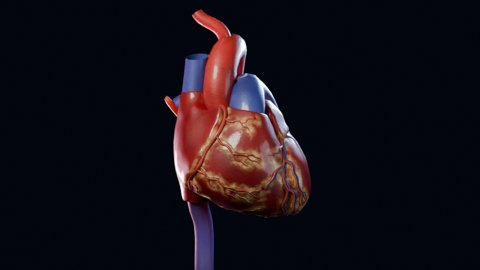
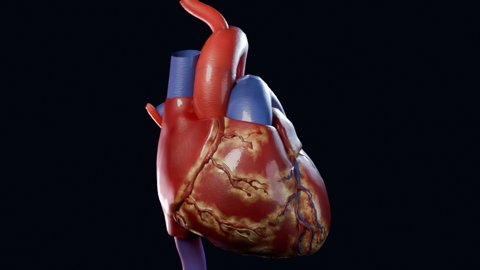
Blender 心脏第三版：冠状血管半埋进心肌（顶点往最近心肌表面拉 embed 比例，变细变平）、单独的冠状血管材质（更暗、反光弱）；镜头推近，心脏占画面六七成
Claude-Session: https://claude.ai/code/session_01MPXDuWJUby6Gdf1fWgkkme

Changed region(s): [[0.2812, 0.0, 0.6875, 1.0]]

diff --git a/video/src/engine/assets/registry.ts b/video/src/engine/assets/registry.ts
@@ -304,6 +304,9 @@ export const ASSETS: AssetMeta[] = [
       artery: {type: 'color', default: '#963431', desc: '动脉 / 肺静脉颜色（含氧血，红）'},
       vein: {type: 'color', default: '#3b4683', desc: '静脉 / 肺动脉颜色（缺氧血，蓝）'},
       valve: {type: 'color', default: '#e6c3ae', desc: '瓣膜颜色'},
+      coronaryArtery: {type: 'color', default: '#7c2624', desc: '冠状动脉颜色（比大动脉暗，融进心肌）'},
+      coronaryVein: {type: 'color', default: '#3c3c70', desc: '心静脉颜色'},
+      embed: {type: 'number', default: 0.5, min: 0, max: 0.9, desc: '冠状血管埋进心肌的程度（0 = 原模型浮在表面，越大越细越平）'},
       fat: {type: 'number', default: 1, min: 0, max: 2, desc: '心外膜脂肪多少（沿冠状血管的黄白色脂肪）'},
       fatReach: {type: 'number', default: 0.05, min: 0, max: 0.3, desc: '脂肪离冠状血管最远多远（模型单位，心脏约 1.2）'},
       fstop: {type: 'number', default: 2.8, min: 0.5, max: 32, desc: '景深光圈（越小背景越虚）'},

diff --git a/video/blender/heart_scene.py b/video/blender/heart_scene.py
@@ -43,7 +43,7 @@ asset = next(a for a in cfg['assets'] if a['id'] == 'biology.heart.v1')
 P = {
     'bpm': 72, 'beat': 1.0, 'spin': 0.0,
     'myocardium': '#74181b', 'artery': '#963431', 'vein': '#3b4683', 'valve': '#e6c3ae',
-    'fstop': 2.8, 'seed': 'heart', 'fat': 1.0, 'fatReach': 0.05,
+    'fstop': 2.8, 'seed': 'heart', 'fat': 1.0, 'fatReach': 0.05, 'embed': 0.5, 'coronaryArtery': '#7c2624', 'coronaryVein': '#3c3c70',
     **asset.get('params', {}),
 }
 fps = cfg['fps']
@@ -69,8 +69,19 @@ bpy.ops.import_scene.gltf(filepath=os.path.join(VIDEO, 'public/assets/models/ana
 parts = [o for o in scene.objects if o.type == 'MESH']
 
 # 部件 → 材质类别（教科书配色：含氧血红、缺氧血蓝）
+CORONARY_WORDS = ('coronary', 'cardiac vein', 'interventricular', 'circumflex', 'sinus', 'inferolateral', 'septal branches', 'vein of left ventricle')
+
+
+def is_coronary(name):
+    n = name.lower()
+    return any(w in n for w in CORONARY_WORDS)
+
+
 def part_kind(name):
     n = name.lower()
+    if is_coronary(name):
+        # 冠状血管单独一类：半埋在心肌 / 脂肪里，颜色更暗、反光更弱
+        return 'coronary_vein' if ('vein' in n or 'sinus' in n) else 'coronary_artery'
     if 'leaflet' in n:
         return 'valve'
     if 'vein' in n or 'sinus' in n or 'vena cava' in n:
@@ -148,7 +159,7 @@ def make_tissue(name, color, kind):
     _set(b, 'Subsurface Weight', 0.4 if kind == 'muscle' else 0.3)
     _set(b, 'Subsurface Radius', (1.0, 0.3, 0.18))
     _set(b, 'Subsurface Scale', 0.06)
-    _set(b, 'Coat Weight', 0.7 if kind == 'muscle' else 0.45)
+    _set(b, 'Coat Weight', {'muscle': 0.7, 'vessel': 0.45, 'coronary': 0.3}[kind])
     _set(b, 'Coat Roughness', 0.07)
     _set(b, 'Coat IOR', 1.38)
     _set(b, 'Specular IOR Level', 0.4)
@@ -199,6 +210,8 @@ MATS = {
     'vein': make_tissue('vein', hex_rgb(P['vein']), 'vessel'),
     'pulmonary_artery': make_tissue('pulmonary_artery', hex_rgb(P['vein']), 'vessel'),
     'valve': make_tissue('valve', hex_rgb(P['valve']), 'vessel'),
+    'coronary_artery': make_tissue('coronary_artery', hex_rgb(P['coronaryArtery']), 'coronary'),
+    'coronary_vein': make_tissue('coronary_vein', hex_rgb(P['coronaryVein']), 'coronary'),
 }
 for o in parts:
     o.data.materials.clear()
@@ -210,9 +223,7 @@ for o in parts:
 def bake_fat():
     # 每个心肌顶点到最近冠状血管（动脉 + 心静脉）的距离 → 顶点属性 fat（0–1）。确定性：纯几何计算
     from mathutils.kdtree import KDTree
-    vessels = [o for o in parts if part_kind(o.name) in ('artery', 'vein') and ('coronary' in o.name.lower() or 'cardiac' in o.name.lower()
-               or 'interventricular' in o.name.lower() or 'circumflex' in o.name.lower() or 'sinus' in o.name.lower()
-               or 'inferolateral' in o.name.lower() or 'septal' in o.name.lower() or 'ventricle' in o.name.lower())]
+    vessels = [o for o in parts if is_coronary(o.name)]
     pts = [o.matrix_world @ v.co for o in vessels for v in o.data.vertices]
     kd = KDTree(len(pts))
     for i, p in enumerate(pts):
@@ -233,6 +244,32 @@ def bake_fat():
     print('心外膜脂肪：参考', len(vessels), '条冠状血管')
 
 
+def embed_coronaries():
+    # 冠状血管在原模型里整根浮在心肌表面、显得太粗太突兀：每个顶点往最近的心肌表面拉 embed 比例
+    # → 管子朝外的一侧压下去，变细、半埋进心肌，走向不变。确定性：纯几何计算
+    from mathutils.kdtree import KDTree
+    k = P['embed']
+    if k <= 0:
+        return
+    myo = [o for o in parts if part_kind(o.name) == 'myocardium']
+    pts = [o.matrix_world @ v.co for o in myo for v in o.data.vertices]
+    kd = KDTree(len(pts))
+    for i, p in enumerate(pts):
+        kd.insert(p, i)
+    kd.balance()
+    for o in parts:
+        if not is_coronary(o.name):
+            continue
+        mw = o.matrix_world
+        inv = mw.inverted()
+        for v in o.data.vertices:
+            w = mw @ v.co
+            near, _, _ = kd.find(w)
+            v.co = inv @ (w + (near - w) * k)
+        o.data.update()
+
+
+embed_coronaries()
 bake_fat()
 
 # 所有部件挂到一个空物体下：心跳 / 自转都作用在它上面（冠状血管贴着心肌，一起动）
